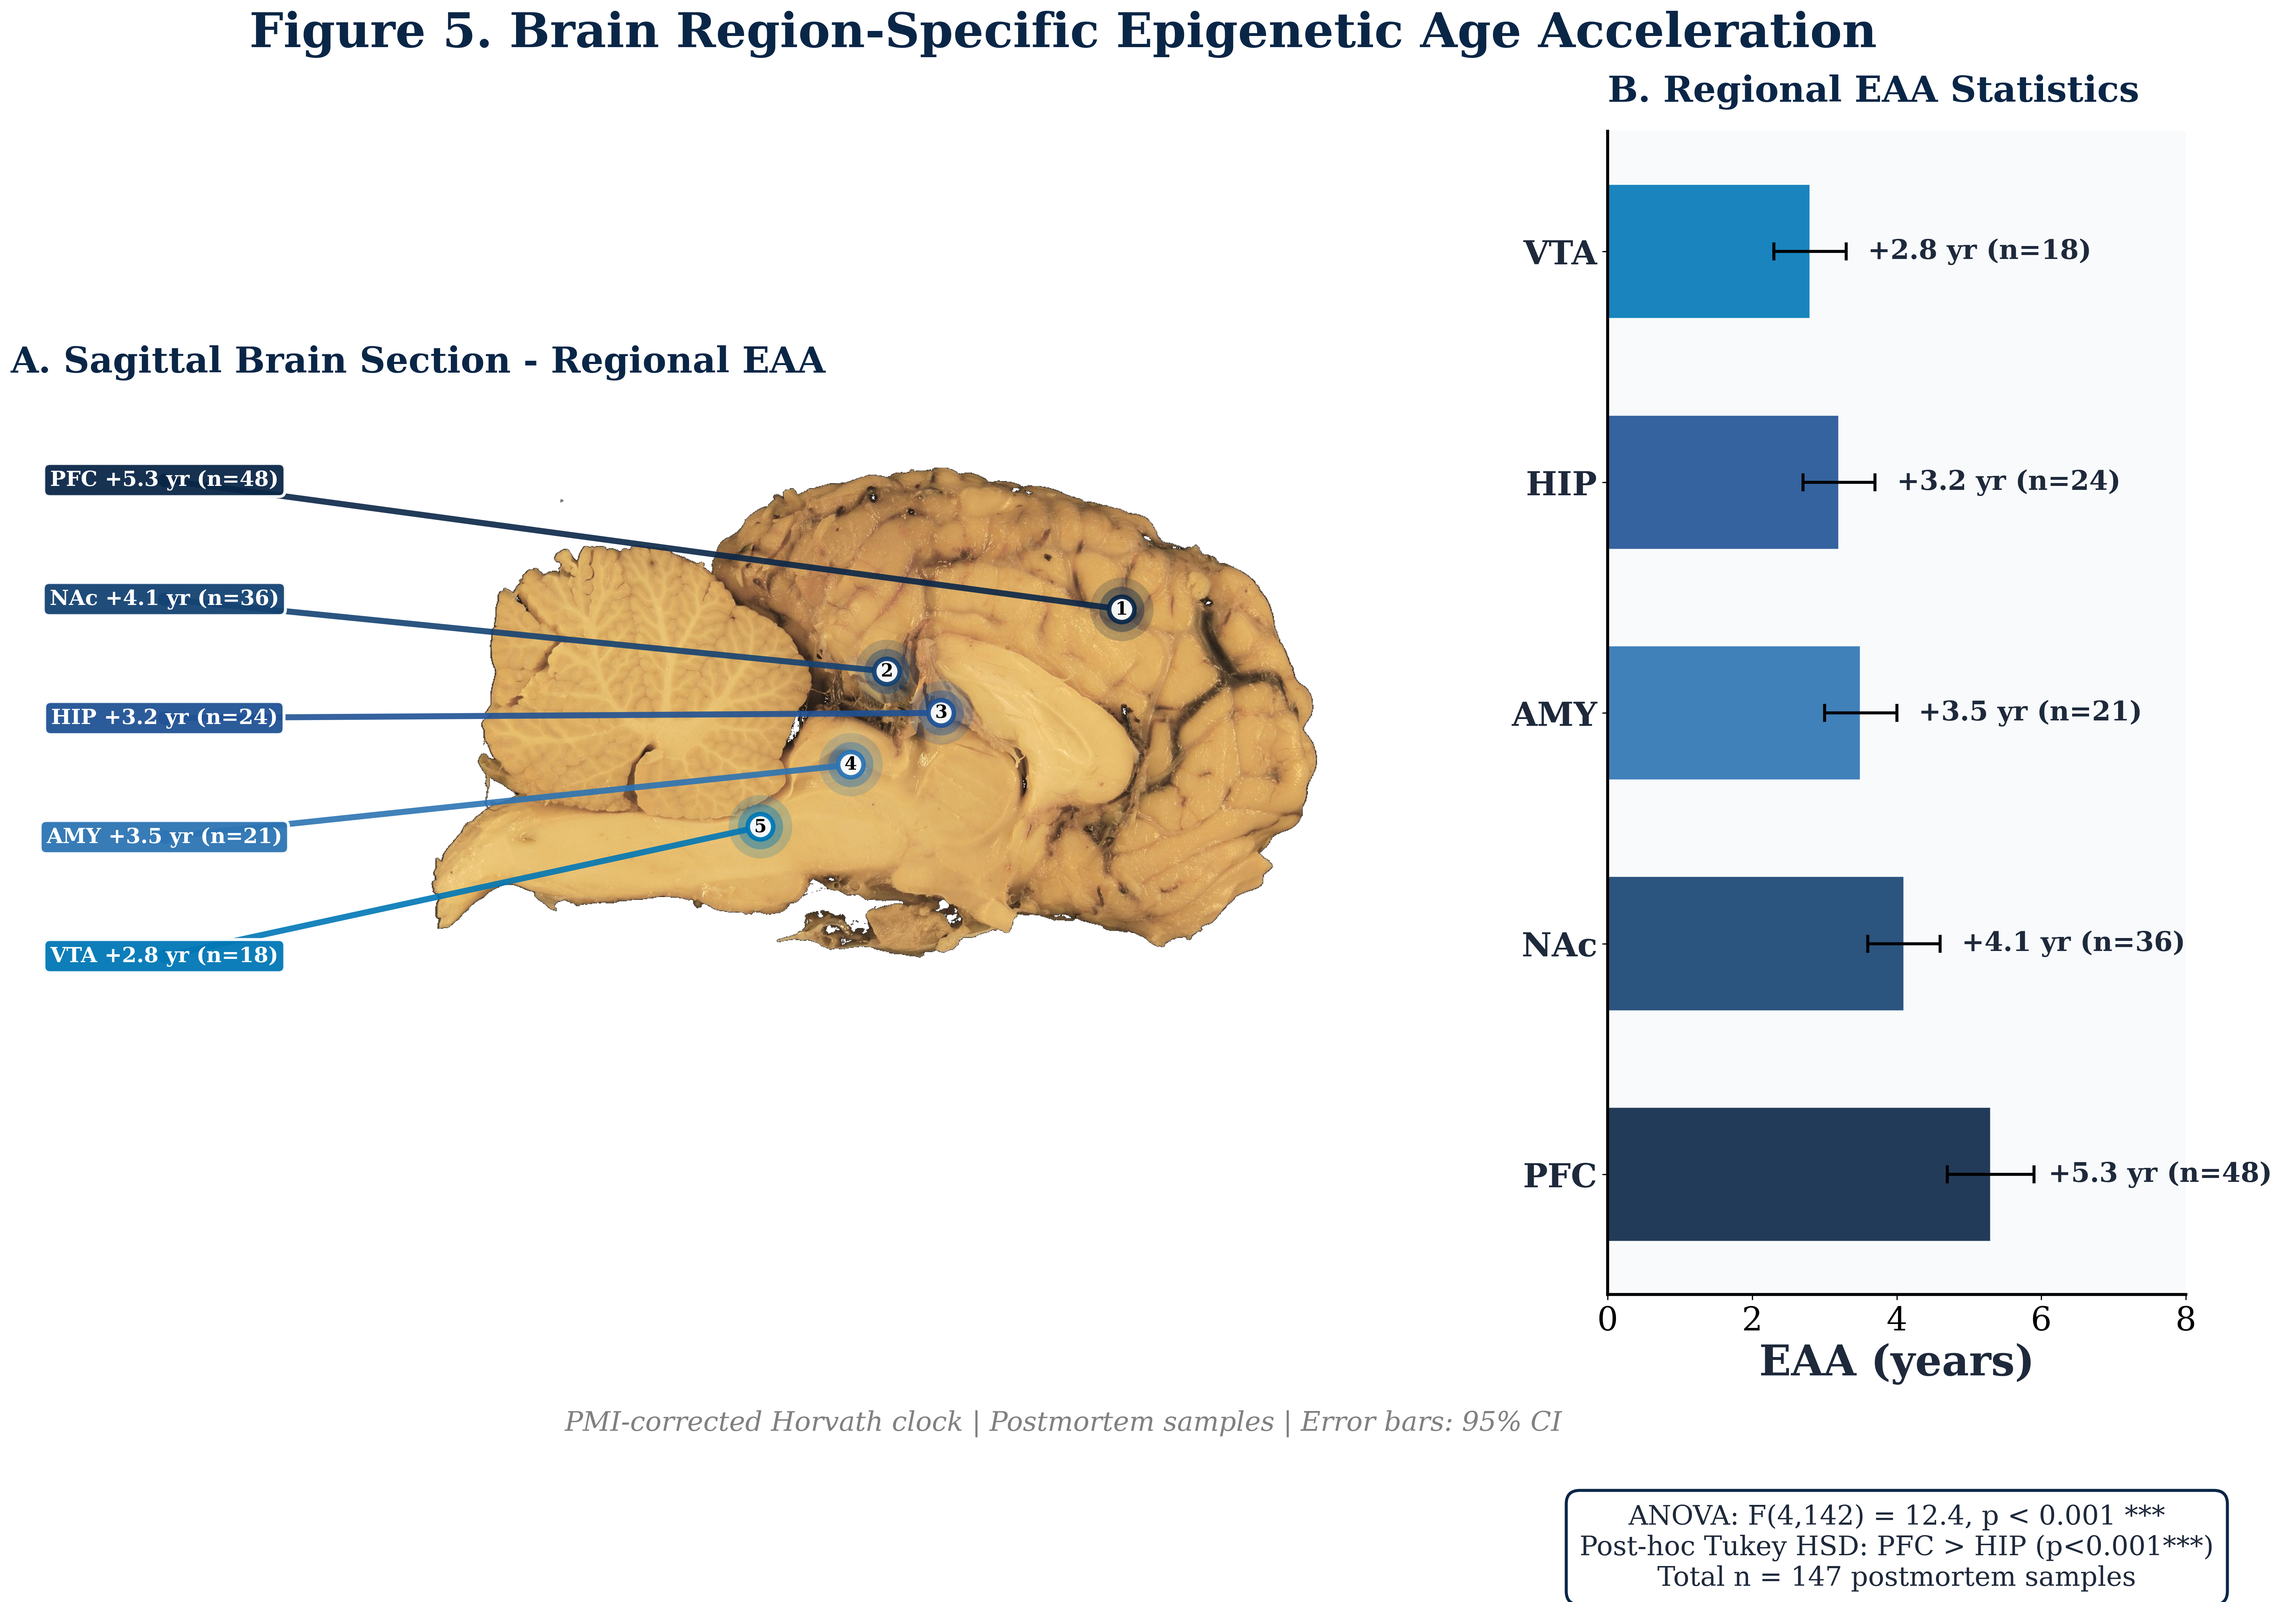
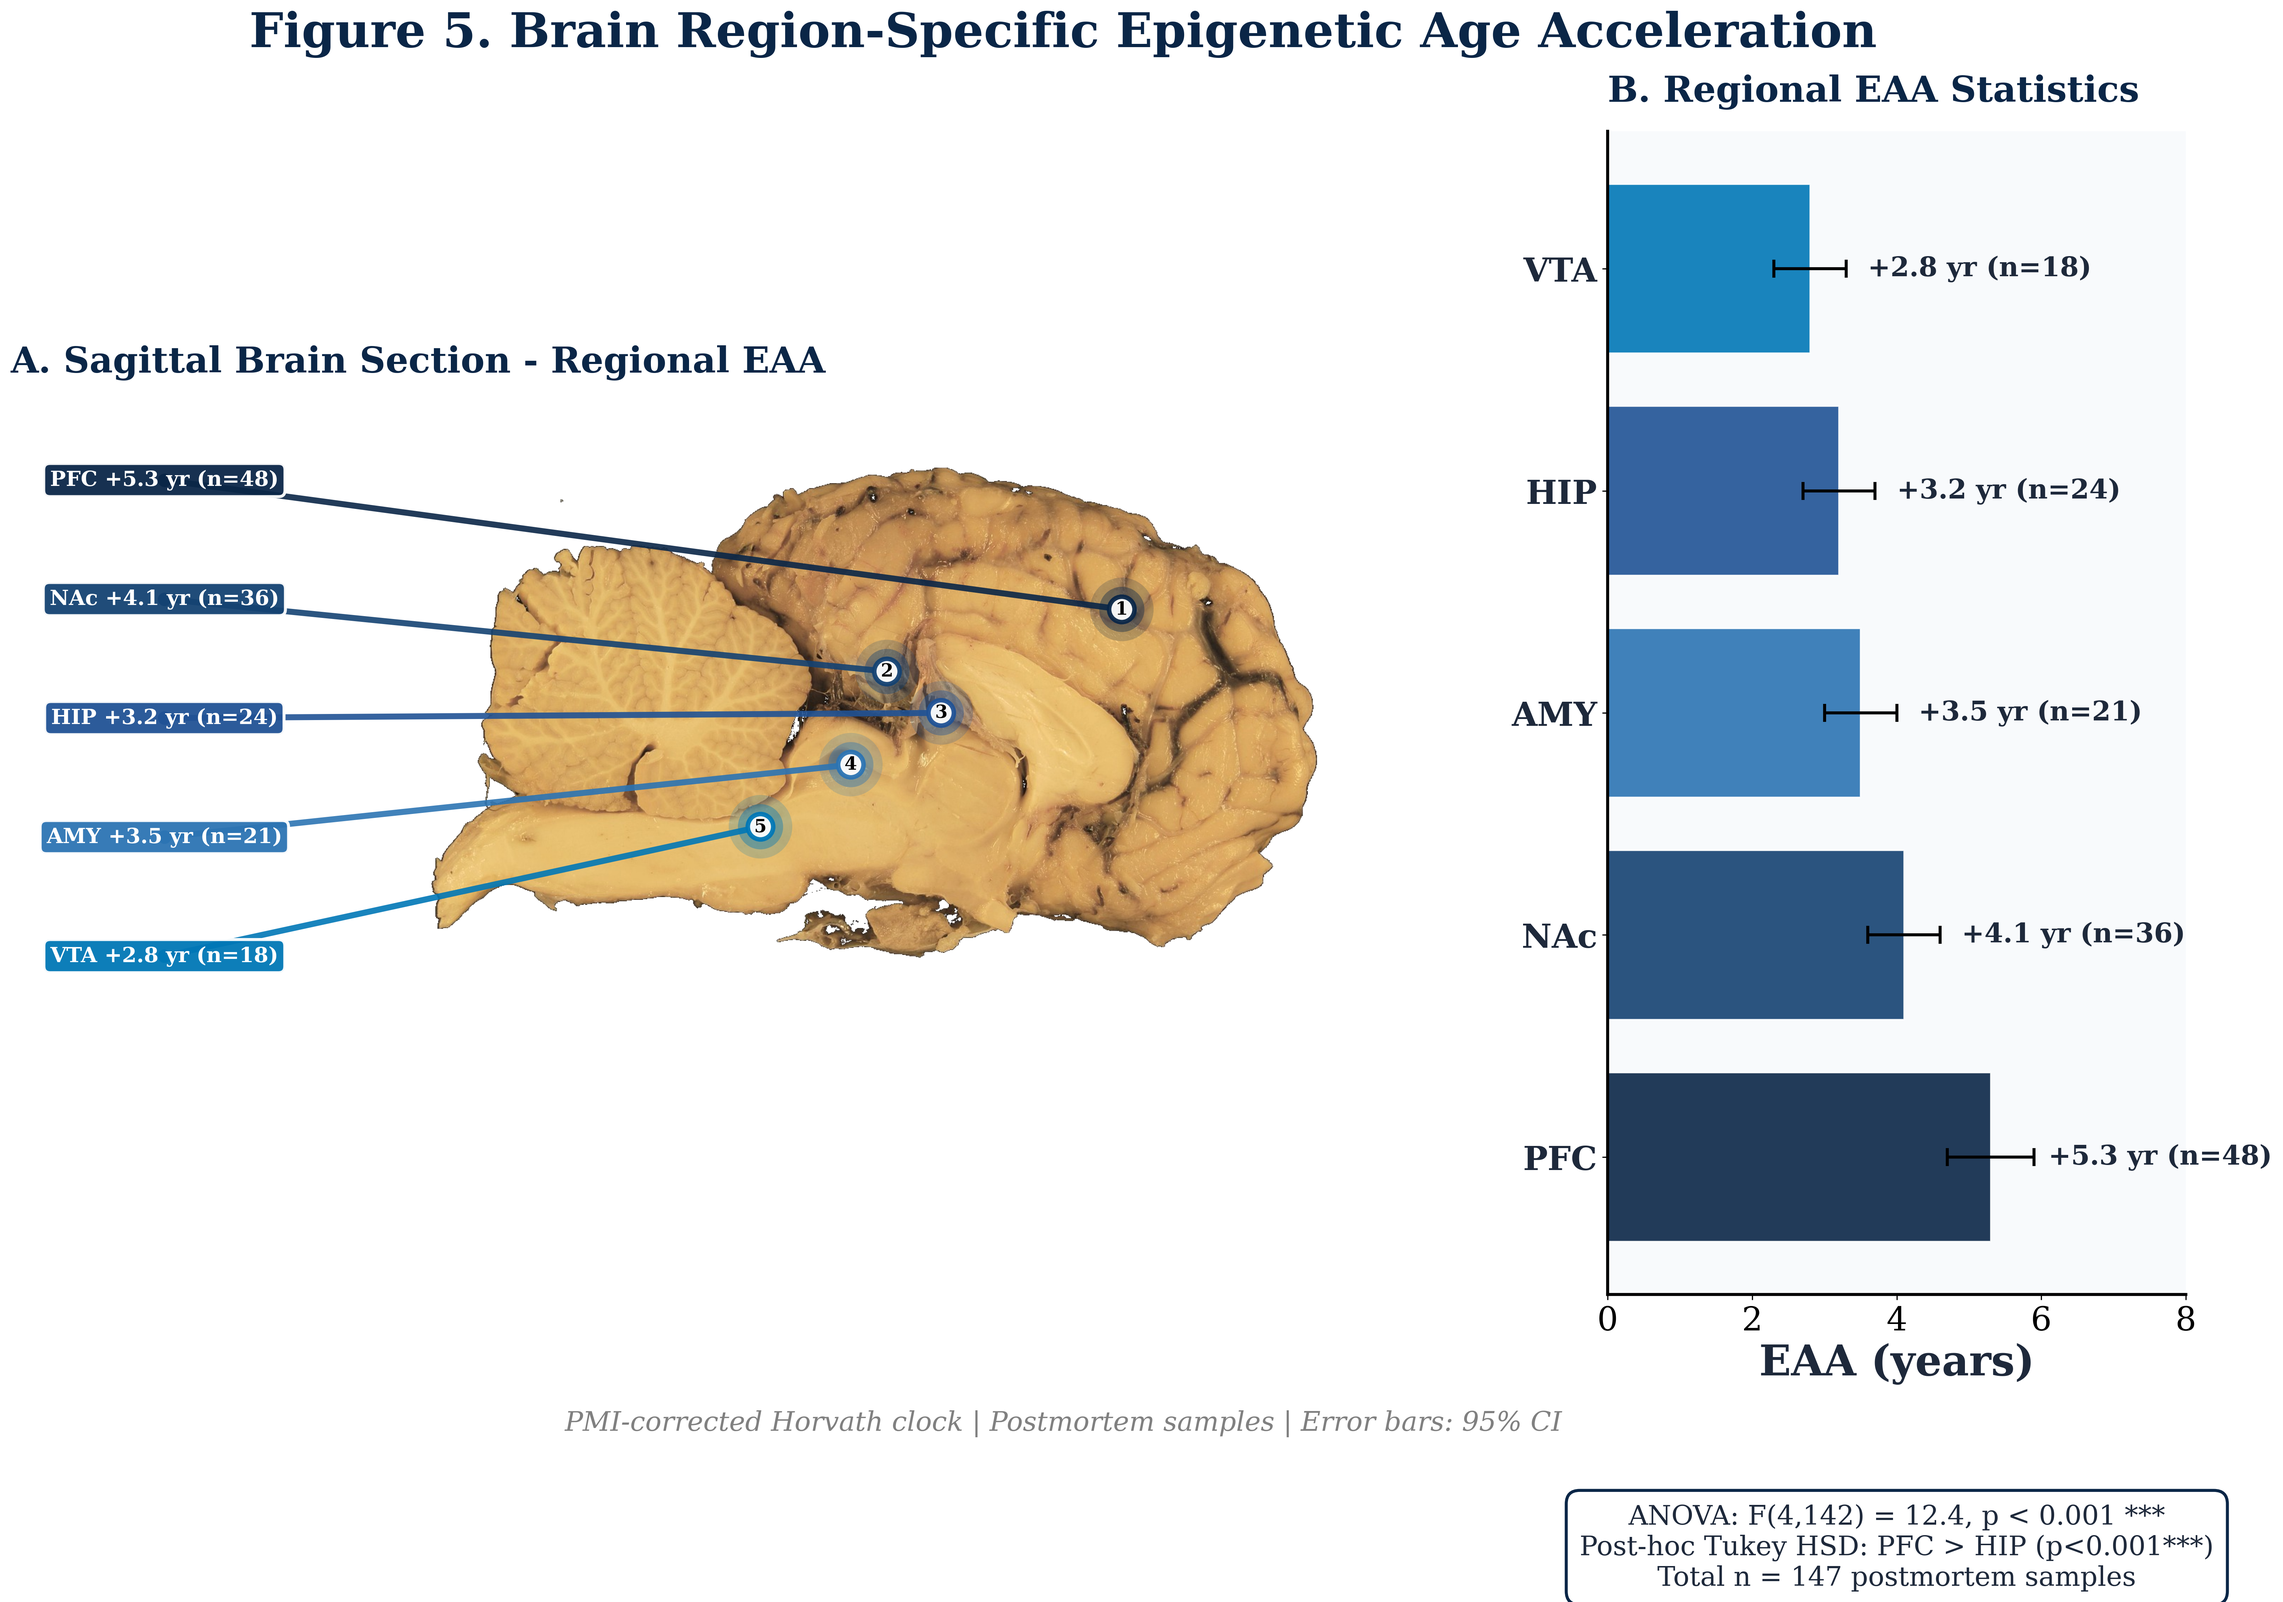
Improve bar spacing and thickness in visual representations
Adjusted y-position multiplier and bar height in `figures/figure_5_brain_blue.py` to minimize spacing and thickness.

Replit-Commit-Author: Agent
Replit-Commit-Session-Id: 8a253a63-be67-47fc-8f46-380b96cbd7c2
Replit-Commit-Checkpoint-Type: full_checkpoint
Replit-Commit-Event-Id: b8bc9c64-72b7-43d2-b3a3-3cd15c3a3047
Replit-Commit-Screenshot-Url: https://storage.googleapis.com/screenshot-production-us-central1/03399981-f7bf-4128-8aa6-94abbe415ae8/8a253a63-be67-47fc-8f46-380b96cbd7c2/Umb9z6f

diff --git a/figures/figure_5_brain_blue.py b/figures/figure_5_brain_blue.py
@@ -131,10 +131,10 @@ eaa_sorted = [eaa_vals[i] for i in sorted_idx]
 colors_sorted = [colors[i] for i in sorted_idx]
 n_sorted = [n_vals[i] for i in sorted_idx]
 
-# Create horizontal bars - thinner bars, closer together
-y_positions = np.arange(len(regions_sorted)) * 0.6  # Reduce spacing between bars
+# Create horizontal bars - minimum spacing
+y_positions = np.arange(len(regions_sorted)) * 0.42  # Minimum spacing
 bars = ax2.barh(y_positions, eaa_sorted, color=colors_sorted, edgecolor='white', 
-                linewidth=1, height=0.35, alpha=0.9)
+                linewidth=1, height=0.32, alpha=0.9)
 
 # Error bars (95% CI approximation)
 ci_errors = [0.6, 0.5, 0.5, 0.5, 0.5]
